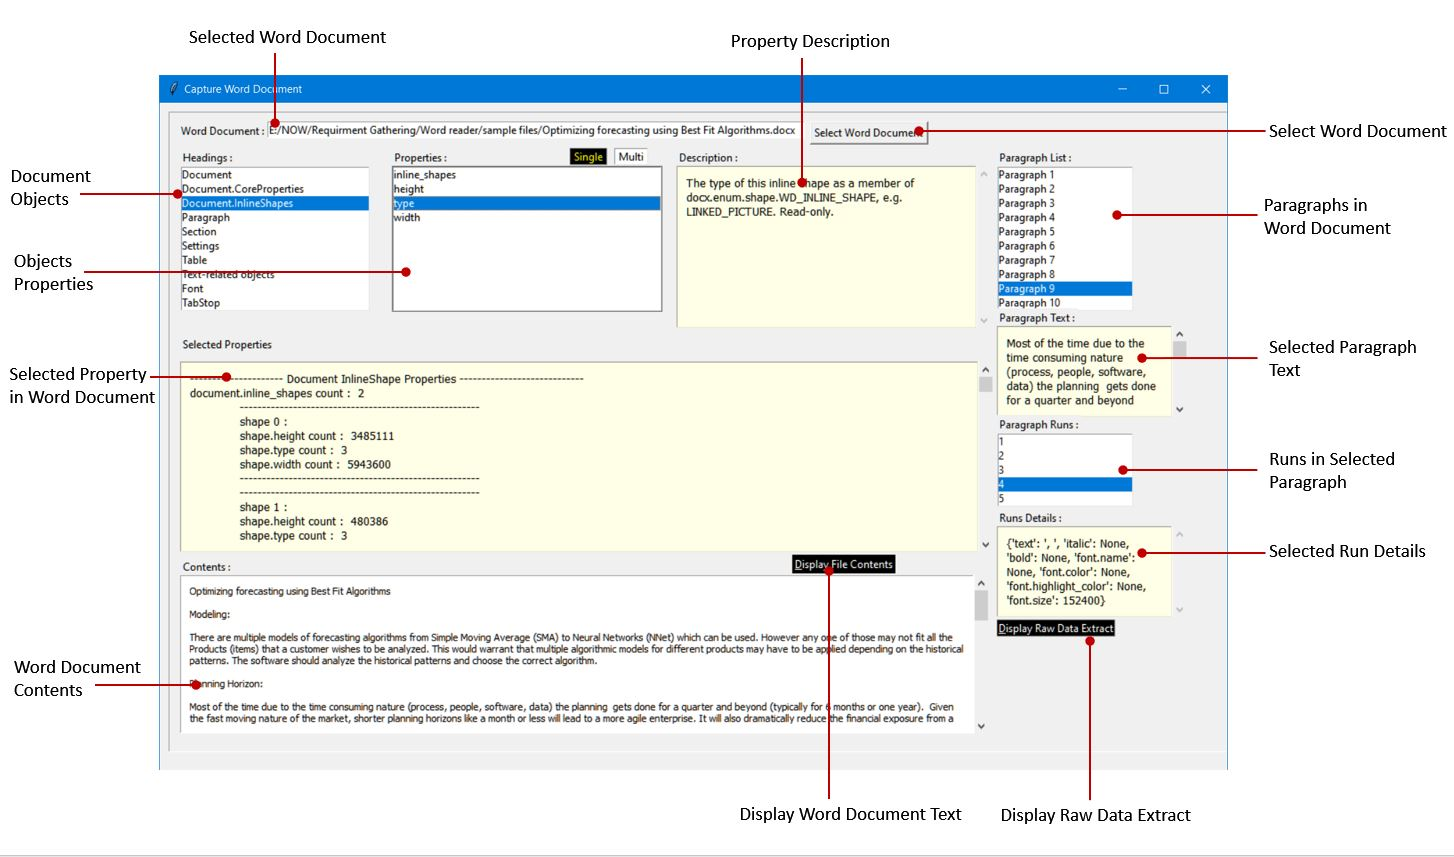
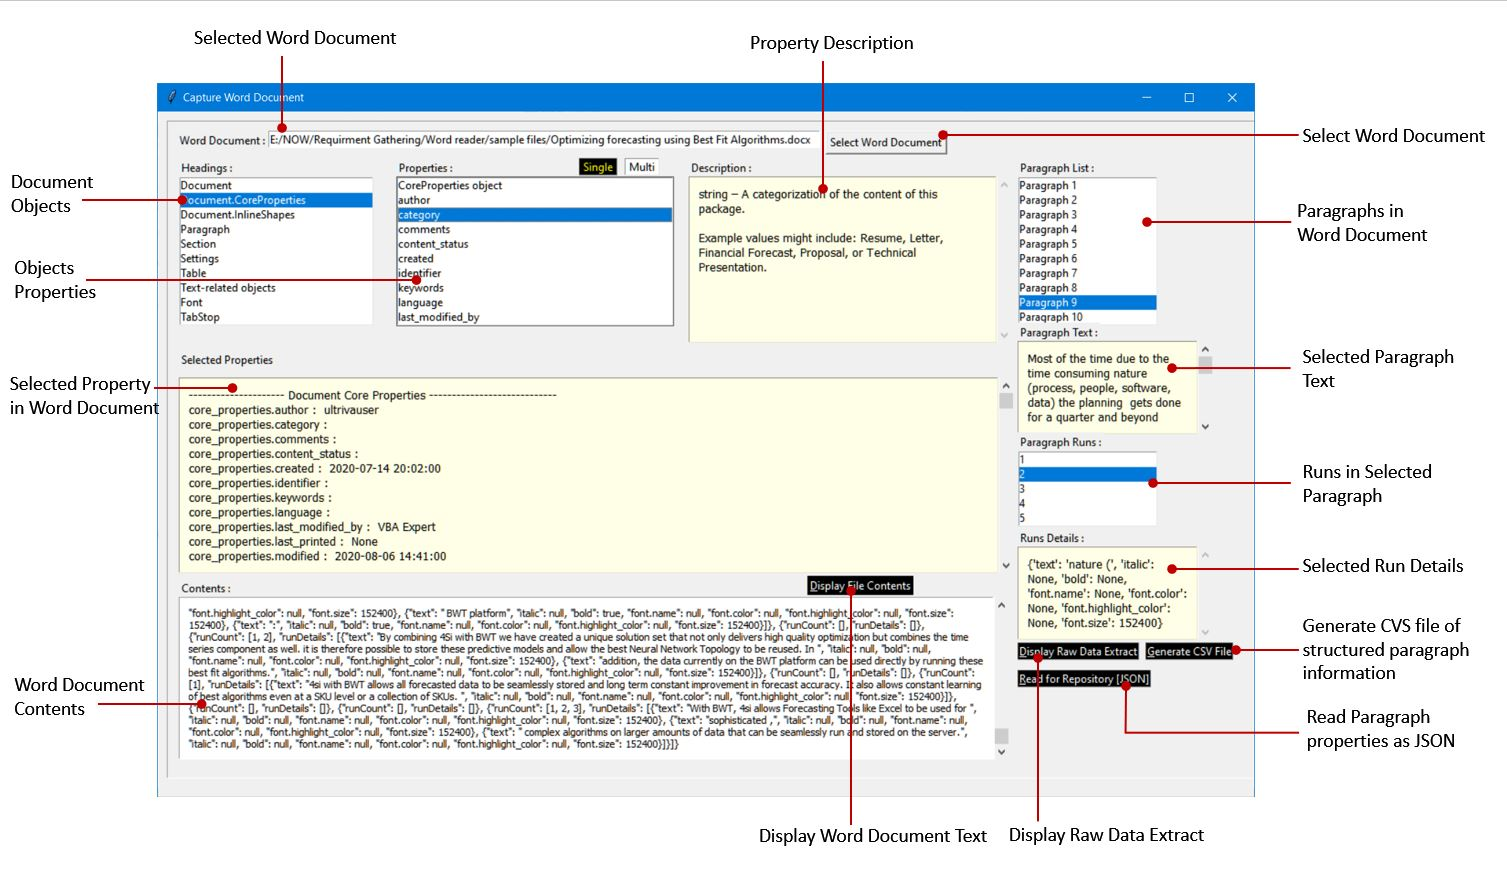
Added Saving structued data to CVS, display in JSON formamt. Updated Topic file and related image.

diff --git a/booksonline/topic_11.html b/booksonline/topic_11.html
@@ -125,8 +125,9 @@ It displays the list of Paragraphs in selected Word Document.<br>
 It displays the Text in each selected Paragraph.<br>
 It displays the list of Runs in each selected Paragraph.<br>
 It displays the the Details of each selected Run of selected Paragraph.<br>
-It displays the Raw data extracted from the selected Word Document.<br>
-
+It displays the Raw data extracted from the selected Word Document in JSON format.<br>
+It saves the Run-wise each Paragraph Text in Word Document in structured CVS file.<br>
+It displays the Run-wise Paragraph Text in Word Document in JSON format.<br>
 <br><br>
 
 
